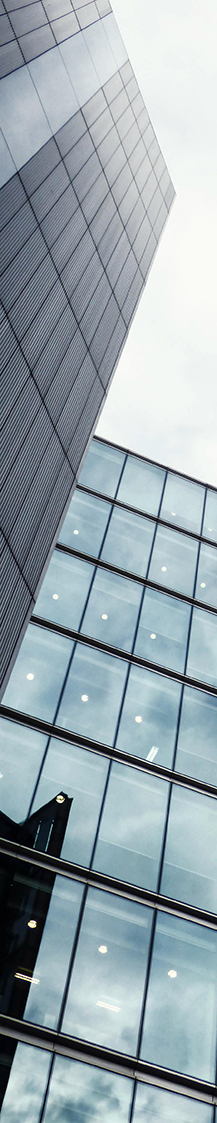
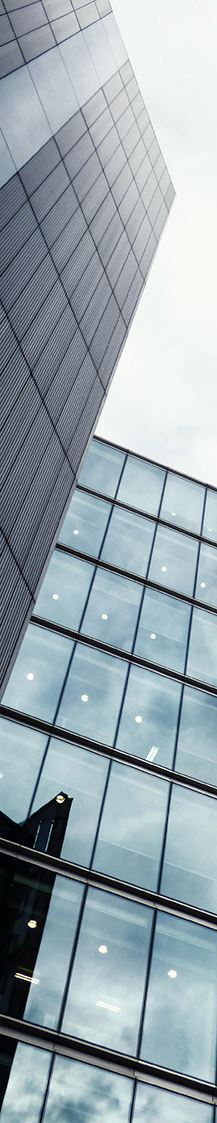
img size

diff --git a/index.html b/index.html
@@ -96,11 +96,11 @@
                 <h1 class="tituloClientes">Alguns de nossos clientes</h1>
                 <div class="clientes">
                     <div>
-                        <img class="imgClientes" src="./imagens/2.png" alt="">
+                        <img class="imgClientes" src="./imagens/2.jpg" alt="">
                         <p class="paragrafoClientes">Solar das Acacias</p>
                     </div>
                     <div>
-                        <img class="imgClientes" src="./imagens/3.png" alt="">
+                        <img class="imgClientes" src="./imagens/3.jpg" alt="">
                         <p class="paragrafoClientes">Varandas do São Franscisco</p>
                     </div>
                     <div>
@@ -112,7 +112,7 @@
                         <p class="paragrafoClientes">Embaixador</p>
                     </div>
                     <div>
-                        <img class="imgClientes" src="./imagens/6.png" alt="">
+                        <img class="imgClientes" src="./imagens/6.jpg" alt="">
                         <p class="paragrafoClientes">Belfort</p>
                     </div>
                 </div>

diff --git a/stylo.css b/stylo.css
@@ -19,7 +19,7 @@ html, body{
 header{
     height: 100%;
     text-align: center;
-    background-image: url(./imagens/Predio1.png);
+    background-image: url(./imagens/Predio1.jpg);
     background-repeat: no-repeat;
     display: flex;
     flex-direction: column;
@@ -28,7 +28,7 @@ main{
     padding-left: 8vw;
     color: #1D3387;
     background: white;
-    background-image: url(./imagens/predioazul.png);
+    background-image: url(./imagens/predioazul.jpg);
     background-repeat: no-repeat;
     background-position-x: right;
     background-size: 16vw 120vw;
